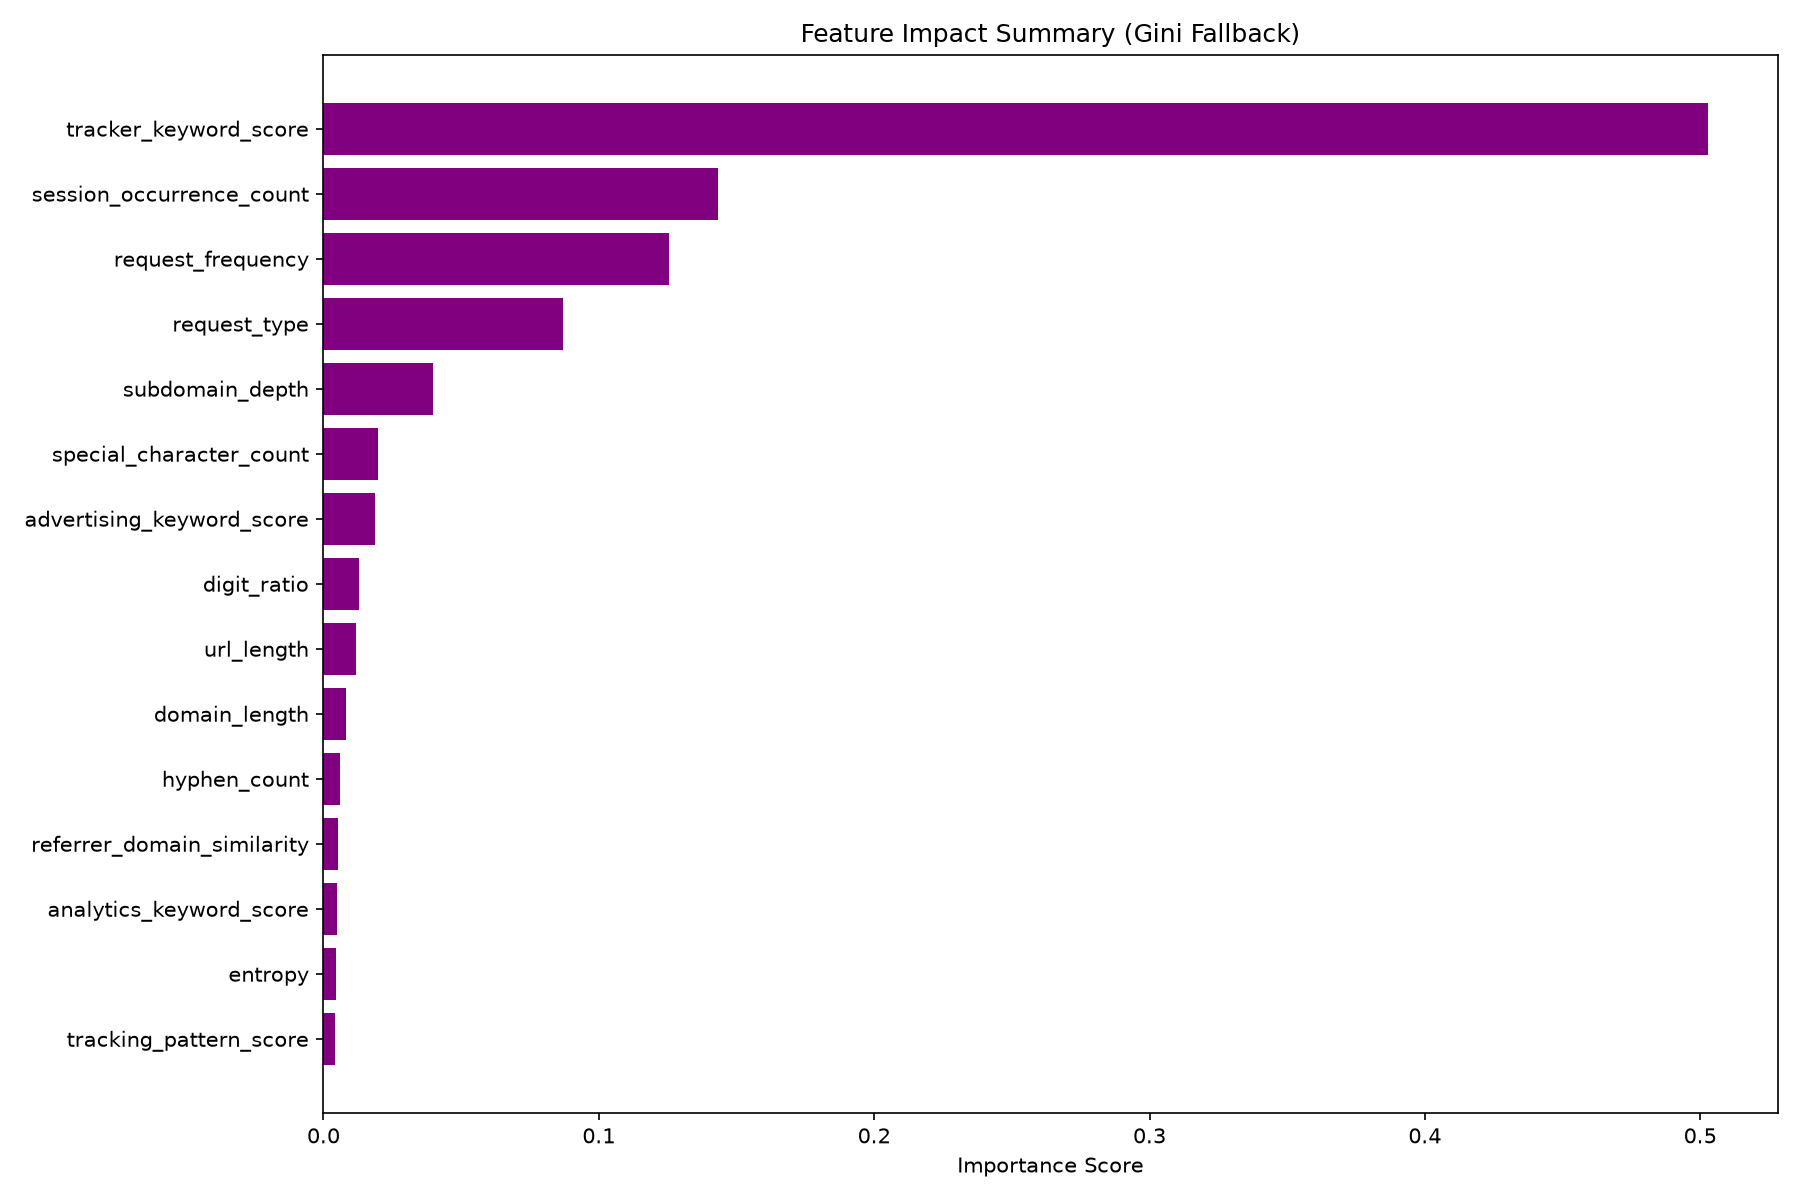
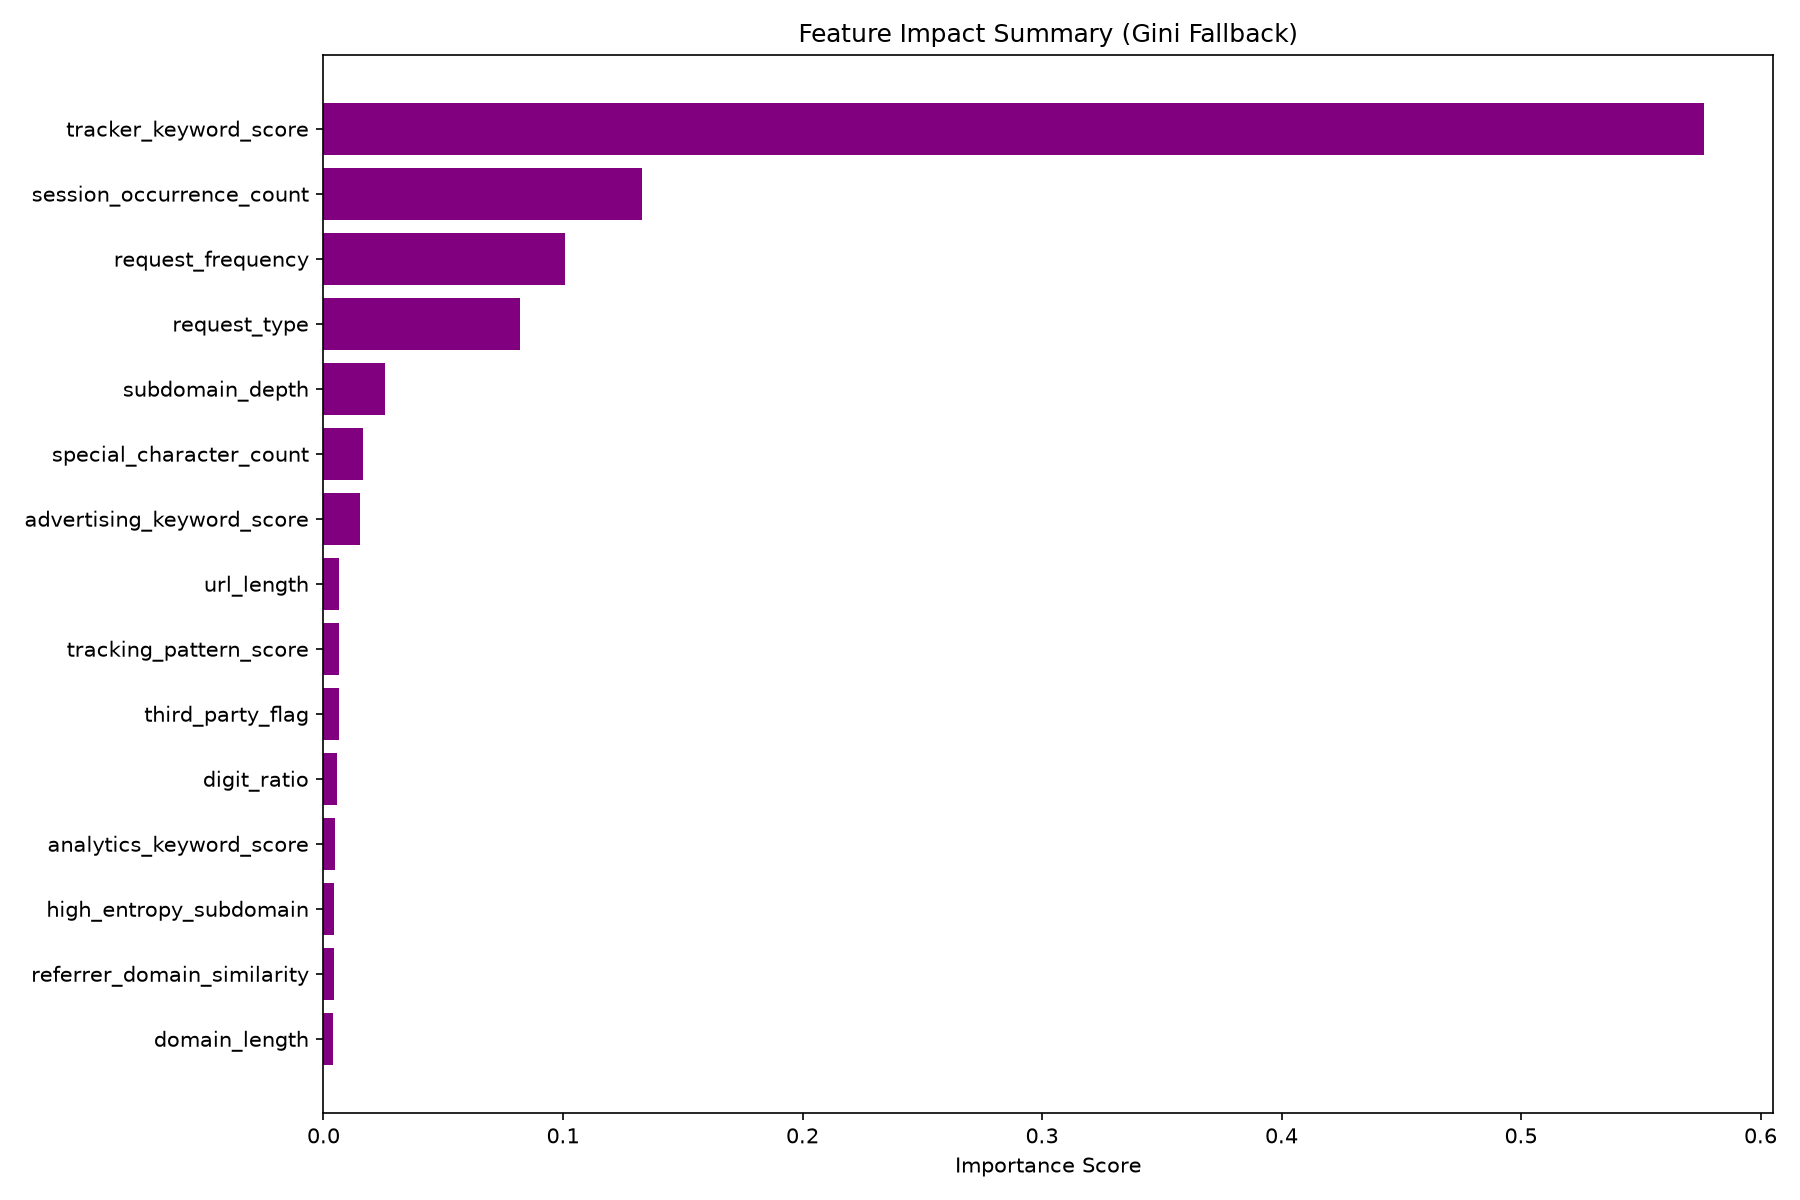
chore: retrain XGBoost model on collected telemetry and update test suite mocks

diff --git a/backend/tests/test_history.py b/backend/tests/test_history.py
@@ -14,11 +14,34 @@ import pytest
 from sqlalchemy.ext.asyncio import create_async_engine, async_sessionmaker, AsyncSession
 from sqlalchemy import select, func
 
+from unittest.mock import patch
+
 from app.models import Base, Install, BlockedRequest, DomainReputation
 from app.services.analytics import AnalyticsService
 from app.schemas.analytics import TrackEventIn
 from app.services.explanation_service import ExplanationService
 from app.services.retention import run_retention_cleanup
+
+
[email redacted](autouse=True)
+def mock_predictor_and_classifier():
+    from inference.predictor import Predictor
+    p = Predictor()
+    original_state = p.model_loaded
+    p.model_loaded = False
+
+    def mock_classify(domain, url, recent_count, is_third_party):
+        url_lower = url.lower()
+        if "fingerprint" in url_lower:
+            return "Fingerprinting"
+        if "safe" in url_lower:
+            return "Safe"
+        return "Advertising"
+
+    with patch("app.services.analytics.TrackerClassifier.classify", side_effect=mock_classify):
+        yield
+
+    p.model_loaded = original_state
 
 
 @pytest.mark.anyio
@@ -118,8 +141,8 @@ async def test_domain_reputation_updates():
 
         # Ingest same domain twice: first blocked, second observed
         event_1 = TrackEventIn(
-            url="https://badtracker.com/pixel.gif",
-            domain="badtracker.com",
+            url="https://badadvertising.com/pixel.gif",
+            domain="badadvertising.com",
             request_type="image",
             blocked=True,
             timestamp=datetime.now(timezone.utc)
@@ -127,8 +150,8 @@ async def test_domain_reputation_updates():
         await service.ingest_event(session, install, event_1)
 
         event_2 = TrackEventIn(
-            url="https://badtracker.com/some-script.js",
-            domain="badtracker.com",
+            url="https://badadvertising.com/some-script.js",
+            domain="badadvertising.com",
             request_type="script",
             blocked=False,
             timestamp=datetime.now(timezone.utc)
@@ -136,7 +159,7 @@ async def test_domain_reputation_updates():
         await service.ingest_event(session, install, event_2)
 
         # Check reputation metrics
-        rep = await service.get_reputation_by_domain(session, "badtracker.com")
+        rep = await service.get_reputation_by_domain(session, "badadvertising.com")
         assert rep is not None
         assert rep.times_seen == 2
         assert rep.times_blocked == 1

diff --git a/backend/reports/model_comparison.md b/backend/reports/model_comparison.md
@@ -6,9 +6,9 @@ The pipeline evaluated three models. The primary optimization metric is **Macro 
 
 | Model | Accuracy | Precision (Macro) | Recall (Macro) | Macro F1 | Weighted F1 | ROC-AUC | Avg Inference (ms) | Size (KB) |
 |---|---|---|---|---|---|---|---|---|
-| Logistic Regression | 0.9002 | 0.9011 | 0.9001 | **0.9002** | 0.9003 | 0.9834 | 0.0218 | 2.6 |
-| Random Forest | 0.9318 | 0.9327 | 0.9317 | **0.9321** | 0.9321 | 0.9919 | 0.0260 | 11741.7 |
-| XGBoost | 0.9447 | 0.9452 | 0.9447 | **0.9447** | 0.9448 | 0.9951 | 0.0186 | 1353.4 |
+| Logistic Regression | 0.9548 | 0.9509 | 0.9257 | **0.9374** | 0.9539 | 0.9954 | 0.0256 | 2.6 |
+| Random Forest | 0.9761 | 0.9794 | 0.9497 | **0.9629** | 0.9754 | 0.9980 | 0.0201 | 6113.8 |
+| XGBoost | 0.9801 | 0.9762 | 0.9680 | **0.9720** | 0.9799 | 0.9988 | 0.0126 | 880.1 |
 
 ## Strengths & Weaknesses Analysis
 
@@ -28,37 +28,37 @@ The pipeline evaluated three models. The primary optimization metric is **Macro 
 
 **Winner**: `XGBoost`
 
-We deploy `XGBoost` as the default model due to its superior Macro F1 score (0.9447) and efficient performance profile.
+We deploy `XGBoost` as the default model due to its superior Macro F1 score (0.9720) and efficient performance profile.
 
 ## Confusion Matrices
 
 ### Logistic Regression
 ```text
 Labels order: advertising, analytics, fingerprinting, safe, suspicious
- 271     4     0     0     4
-  16   220     0     7    35
-   3     9   261     2     4
-   0    12     0   261     6
-   0    23     0    14   241
+ 590     0     0     0    10
+   0   589    11     0     0
+   0    24    86     0     0
+   0     0     0     1     0
+  23     0     0     0   171
 ```
 
 ### Random Forest
 ```text
 Labels order: advertising, analytics, fingerprinting, safe, suspicious
- 270     7     1     0     1
-  13   241     2     3    19
-   3    11   264     0     1
-   0     4     0   272     3
-   0    24     0     3   251
+ 597     1     0     0     2
+   0   596     4     0     0
+   0    23    87     0     0
+   0     0     0     1     0
+   6     0     0     0   188
 ```
 
 ### XGBoost
 ```text
 Labels order: advertising, analytics, fingerprinting, safe, suspicious
- 270     5     2     0     2
-  12   246     1     1    18
-   3    10   263     0     3
-   0     1     0   275     3
-   1    12     0     3   262
+ 595     1     0     0     4
+   0   593     7     0     0
+   0    12    98     0     0
+   0     0     0     1     0
+   6     0     0     0   188
 ```
 